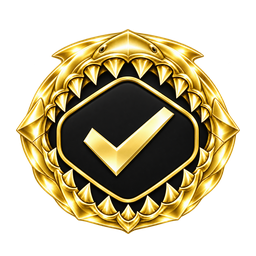
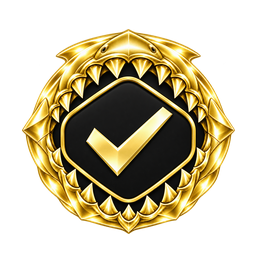
Preserve Megalodon artwork proportions in badge exports

diff --git a/libs/badgeHoverArt.ts b/libs/badgeHoverArt.ts
@@ -19,7 +19,7 @@ const artwork: Record<string, BadgeHoverArt> = {
   "Great White Shark": { poster: require('../assets/badges/hover/great-white-shark.png'), animation: require('../assets/badges/hover/great-white-shark-animation.webp'), posterBounds: { left: 5, top: 15, right: 120, bottom: 121 }, posterSit: 114 },
   "Killer Whale": { poster: require('../assets/badges/hover/killer-whale.png'), animation: require('../assets/badges/hover/killer-whale-animation.webp'), posterBounds: { left: 19, top: 11, right: 93, bottom: 98 }, posterSit: 94 },
   "Blue Whale": { poster: require('../assets/badges/hover/blue-whale.png'), animation: require('../assets/badges/hover/blue-whale-animation.webp'), posterBounds: { left: 16, top: 24, right: 122, bottom: 126 }, posterSit: 120 },
-  "Megalodon": { poster: require('../assets/badges/hover/megalodon.png'), animation: require('../assets/badges/hover/megalodon-animation.webp'), posterBounds: { left: 5, top: 19, right: 124, bottom: 126 }, posterSit: 121 },
+  "Megalodon": { poster: require('../assets/badges/hover/megalodon.png'), animation: require('../assets/badges/hover/megalodon-animation.webp'), posterBounds: { left: 9, top: 19, right: 120, bottom: 126 }, posterSit: 121 },
 };
 
 export function badgeHoverArt(tier: string | null | undefined): BadgeHoverArt | null {

diff --git a/libs/misc.ts b/libs/misc.ts
@@ -656,7 +656,7 @@ const BADGE_OPTICS: Record<string, { left: number; top: number; right: number; b
   "Killer Whale": { left: 19, top: 17, right: 109, bottom: 121 },
   "Great White Shark": { left: 8, top: 13, right: 121, bottom: 120 },
   "Blue Whale": { left: 7, top: 13, right: 119, bottom: 121 },
-  "Megalodon": { left: 8, top: 15, right: 120, bottom: 117 },
+  "Megalodon": { left: 11, top: 15, right: 117, bottom: 117 },
 };
 
 // Optical resting line of each still: the lowest row still carrying a quarter

diff --git a/__tests__/libs/misc.test.ts b/__tests__/libs/misc.test.ts
@@ -517,7 +517,7 @@ describe('libs/misc', () => {
       ["Killer Whale", 19, 17, 109, 121, 118],
       ["Great White Shark", 8, 13, 121, 120, 114],
       ["Blue Whale", 7, 13, 119, 121, 115],
-      ["Megalodon", 8, 15, 120, 117, 114],
+      ["Megalodon", 11, 15, 117, 117, 114],
     ])('fits %s to its tier height and rests it on the name baseline', (tier, left, top, right, bottom, sit) => {
       const source = badgeImageFor(String(tier));
       expect(source).toBeDefined();
